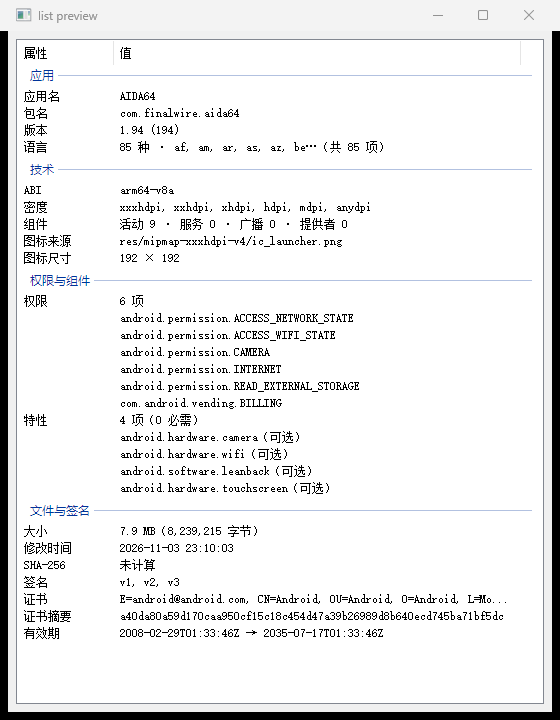
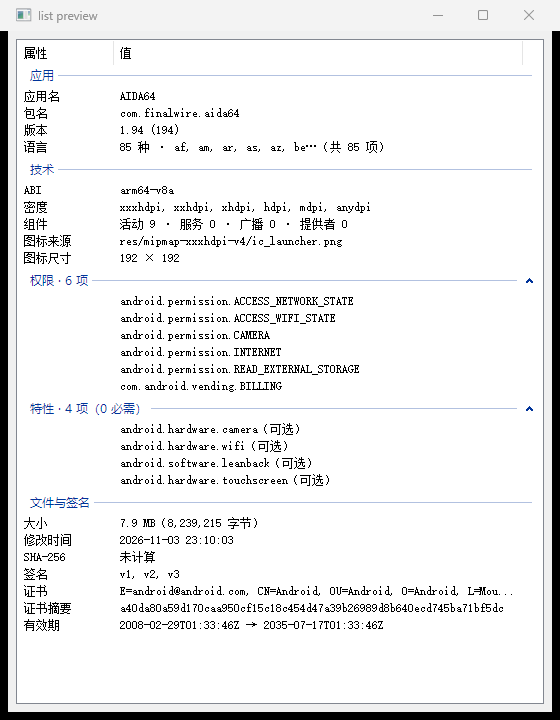
M3: 权限 / 特性明细改成可折叠的系统分组
- 模型：「权限与组件」拆成两个独立分组「权限 · N 项」「特性 · N 项（M 必需）」，明细作为组内行，PageGroup 增加 collapsible
- 列表：LVGF_STATE + LVGS_COLLAPSIBLE（箭头与点击都交给系统，不写命中测试）
- v5 宿主降级：comctl32 没有 v6 时不画分组带，改为把组标题插成普通行，避免"仅值明细"失去上下文
- 修正 comctl32 判断：不用 LVM_ENABLEGROUPVIEW 返回值（v6 下也可能返回 FALSE，会把列表搞成整表空白），改问 DllGetVersion
- 单测更新：权限/特性按组断言（可折叠、条数、标题计数、必需/可选标注），29 项全 ok
- 文档：m3 §16.1/16.2（结构变化、v5 降级、返回值坑）、verification R-0010 与证据截图

diff --git a/src/propsheet/page_list.cpp b/src/propsheet/page_list.cpp
@@ -1,15 +1,18 @@
 #include "propsheet/page_list.h"
 
 #include <commctrl.h>
+#include <shlwapi.h>  // DLLVERSIONINFO / DllGetVersion
 
 #include <algorithm>
+#include <cstring>
 
 namespace apksx {
 namespace {
 
 int AddRow(HWND list, int group_id, int indent, const wchar_t* key, const wchar_t* value) {
   LVITEMW item{};
-  item.mask = LVIF_TEXT | LVIF_GROUPID | LVIF_INDENT;
+  item.mask = LVIF_TEXT | LVIF_INDENT;
+  if (group_id > 0) item.mask |= LVIF_GROUPID;
   item.iItem = ListView_GetItemCount(list);
   item.iIndent = indent;
   item.iGroupId = group_id;
@@ -27,10 +30,36 @@ int AddRow(HWND list, int group_id, int indent, const wchar_t* key, const wchar_
   return index;
 }
 
-void AddGroup(HWND list, int group_id, const std::wstring& title) {
+// comctl32 是 v5（进程没有 v6 清单）还是 v6：只有 v6 才有分组带。
+// 不用 LVM_ENABLEGROUPVIEW 的返回值判断——它在 v6 上也会返回 FALSE，会把列表搞成"分组模式但无组"（整表空白）。
+int ComctlMajorVersion() {
+  static int cached = -1;
+  if (cached >= 0) return cached;
+  cached = 0;
+  HMODULE module = ::GetModuleHandleW(L"comctl32.dll");
+  if (module == nullptr) module = ::LoadLibraryW(L"comctl32.dll");
+  if (module != nullptr) {
+    auto get_version = reinterpret_cast<HRESULT(WINAPI*)(DLLVERSIONINFO*)>(
+        ::GetProcAddress(module, "DllGetVersion"));
+    if (get_version != nullptr) {
+      DLLVERSIONINFO info{};
+      info.cbSize = sizeof(info);
+      if (SUCCEEDED(get_version(&info))) cached = static_cast<int>(info.dwMajorVersion);
+    }
+  }
+  return cached;
+}
+
+void AddGroup(HWND list, int group_id, const std::wstring& title, bool collapsible) {
   LVGROUP group{};
   group.cbSize = sizeof(group);
   group.mask = LVGF_HEADER | LVGF_GROUPID;
+  if (collapsible) {
+    // 默认展开；箭头由系统画、点击也由系统处理，我们不做命中测试
+    group.mask |= LVGF_STATE;
+    group.stateMask = LVGS_COLLAPSIBLE;
+    group.state = LVGS_COLLAPSIBLE;
+  }
   group.pszHeader = const_cast<wchar_t*>(title.c_str());
   group.cchHeader = static_cast<int>(title.size());
   group.iGroupId = group_id;
@@ -42,7 +71,7 @@ void AddGroup(HWND list, int group_id, const std::wstring& title) {
 void ConfigureListView(HWND list) {
   ListView_SetExtendedListViewStyle(list, LVS_EX_FULLROWSELECT | LVS_EX_INFOTIP |
                                              LVS_EX_LABELTIP | LVS_EX_DOUBLEBUFFER);
-  ListView_EnableGroupView(list, TRUE);
+  // 分组视图在 PopulateListView 里按 comctl32 版本决定开关
 }
 
 void ApplyListColumns(HWND list, int width, int dpi) {
@@ -63,11 +92,21 @@ void PopulateListView(HWND list, const PageModel& model) {
   ::SendMessageW(list, WM_SETREDRAW, FALSE, 0);
   ListView_DeleteAllItems(list);
   ListView_RemoveAllGroups(list);
-  ListView_EnableGroupView(list, TRUE);
+  // comctl32 v5 的宿主（没有 v6 清单的进程）不画分组带：此时把组标题降级成普通行，
+  // 否则"权限/特性"这种只有值的明细会失去上下文。
+  const bool groups_supported = ComctlMajorVersion() >= 6;
+  ListView_EnableGroupView(list, groups_supported ? TRUE : FALSE);
 
   int group_id = 1;
   for (const PageGroup& group : model.groups) {
-    AddGroup(list, group_id, group.title);
+    if (!groups_supported) {
+      AddRow(list, 0, 0, L"", group.title.c_str());
+      for (const PageRow& row : group.rows) {
+        AddRow(list, 0, 0, row.key.c_str(), row.value.c_str());
+      }
+      continue;
+    }
+    AddGroup(list, group_id, group.title, group.collapsible);
     for (const PageRow& row : group.rows) {
       // 子项缩进一级（系统画缩进），与"权限/特性"这类明细共存
       AddRow(list, group_id, 0, row.key.c_str(), row.value.c_str());
@@ -77,8 +116,8 @@ void PopulateListView(HWND list, const PageModel& model) {
     }
     ++group_id;
   }
-  if (!model.warnings.empty()) {
-    AddGroup(list, group_id, L"诊断");
+  if (groups_supported && !model.warnings.empty()) {
+    AddGroup(list, group_id, L"诊断", false);
     for (const std::wstring& warning : model.warnings) {
       AddRow(list, group_id, 0, L"", warning.c_str());
     }

diff --git a/src/propsheet/page_model.cpp b/src/propsheet/page_model.cpp
@@ -224,51 +224,52 @@ bool BuildPageModel(const json::Value& doc, const std::wstring& fallback_name, P
   }
   if (!tech.rows.empty()) out->groups.push_back(std::move(tech));
 
-  // ---------------------------------------------------------------- 权限与组件
-  PageGroup perms;
-  perms.title = L"权限与组件";
+  // ---------------------------------------------------------------- 权限（可折叠）
   {
     const json::Value* list = doc.Find("permissions");
-    if (list != nullptr && list->type == json::Type::Array && !list->items.empty()) {
-      PageRow row;
-      row.key = L"权限";
-      std::vector<std::wstring> children;
+    std::vector<std::wstring> names;
+    if (list != nullptr && list->type == json::Type::Array) {
       for (const json::ValuePtr& item : list->items) {
         const std::wstring name = StrField(item.get(), "name");
-        if (!name.empty()) children.push_back(name);
+        if (!name.empty()) names.push_back(name);
       }
-      wchar_t buf[48];
-      _snwprintf_s(buf, _TRUNCATE, L"%zu 项", children.size());
-      row.value = buf;
-      row.copy_value = children.empty() ? std::wstring() : children.front();
-      row.children = std::move(children);
-      perms.rows.push_back(std::move(row));
+    }
+    if (!names.empty()) {
+      PageGroup perms;
+      wchar_t buf[64];
+      _snwprintf_s(buf, _TRUNCATE, L"权限 · %zu 项", names.size());
+      perms.title = buf;
+      perms.collapsible = true;  // 分组带带折叠箭头，收起后整段明细隐藏
+      for (const std::wstring& name : names) AddRow(&perms, L"", name);
+      out->groups.push_back(std::move(perms));
     }
   }
+
+  // ---------------------------------------------------------------- 特性（可折叠）
   {
     const json::Value* list = doc.Find("features");
-    if (list != nullptr && list->type == json::Type::Array && !list->items.empty()) {
-      PageRow row;
-      row.key = L"特性";
-      size_t required = 0;
-      std::vector<std::wstring> children;
+    std::vector<std::wstring> lines;
+    size_t required = 0;
+    if (list != nullptr && list->type == json::Type::Array) {
       for (const json::ValuePtr& item : list->items) {
         const std::wstring name = StrField(item.get(), "name");
         if (name.empty()) continue;
         const json::Value* required_field = Field(item.get(), "required");
         const bool is_required = required_field == nullptr || required_field->as_bool(true);
         if (is_required) ++required;
-        children.push_back(name + (is_required ? L"（必需）" : L"（可选）"));
+        lines.push_back(name + (is_required ? L"（必需）" : L"（可选）"));
       }
-      wchar_t buf[64];
-      _snwprintf_s(buf, _TRUNCATE, L"%zu 项（%zu 必需）", children.size(), required);
-      row.value = buf;
-      row.copy_value = children.empty() ? std::wstring() : children.front();
-      row.children = std::move(children);
-      perms.rows.push_back(std::move(row));
+    }
+    if (!lines.empty()) {
+      PageGroup features;
+      wchar_t buf[80];
+      _snwprintf_s(buf, _TRUNCATE, L"特性 · %zu 项（%zu 必需）", lines.size(), required);
+      features.title = buf;
+      features.collapsible = true;
+      for (const std::wstring& line : lines) AddRow(&features, L"", line);
+      out->groups.push_back(std::move(features));
     }
   }
-  if (!perms.rows.empty()) out->groups.push_back(std::move(perms));
 
   // ---------------------------------------------------------------- 文件与签名
   PageGroup files;

diff --git a/tests/propsheet_model_test.cpp b/tests/propsheet_model_test.cpp
@@ -89,6 +89,13 @@ void DumpModel(const apksx::PageModel& model) {
   }
 }
 
+const apksx::PageGroup* FindGroupByPrefix(const apksx::PageModel& model, const wchar_t* prefix) {
+  for (const apksx::PageGroup& group : model.groups) {
+    if (group.title.find(prefix) == 0) return &group;
+  }
+  return nullptr;
+}
+
 int RunSelfTest() {
   std::printf("selftest: parse + model\n");
   apksx::json::ValuePtr doc;
@@ -108,17 +115,23 @@ int RunSelfTest() {
   const std::wstring* package = FindValue(model, L"包名");
   Check(package != nullptr && *package == L"com.example.pngicon", "应用组有包名");
 
-  const apksx::PageRow* perms = FindRowAnywhere(model, L"权限");
-  Check(perms != nullptr && perms->children.size() == 2, "权限行有两个子项");
-  Check(perms != nullptr && perms->value == L"2 项", "权限行显示数量");
+  const apksx::PageGroup* perms = FindGroupByPrefix(model, L"权限 ·");
+  Check(perms != nullptr && perms->collapsible, "权限组可折叠");
+  Check(perms != nullptr && perms->rows.size() == 2, "权限组有两条明细");
+  Check(perms != nullptr && perms->title.find(L"2 项") != std::wstring::npos, "权限组标题带数量");
+  Check(perms != nullptr && perms->rows[0].value.find(L"android.permission") == 0,
+        "权限明细是权限名");
 
-  const apksx::PageRow* features = FindRowAnywhere(model, L"特性");
-  Check(features != nullptr && features->children.size() == 2, "特性行有两个子项");
-  Check(features != nullptr && features->value.find(L"1 必需") != std::wstring::npos,
-        "特性行统计 required");
-  Check(features != nullptr && features->children[0].find(L"（必需）") != std::wstring::npos,
+  const apksx::PageGroup* features = FindGroupByPrefix(model, L"特性 ·");
+  Check(features != nullptr && features->collapsible, "特性组可折叠");
+  Check(features != nullptr && features->rows.size() == 2, "特性组有两条明细");
+  Check(features != nullptr && features->title.find(L"1 必需") != std::wstring::npos,
+        "特性组标题统计 required");
+  Check(features != nullptr &&
+            features->rows[0].value.find(L"（必需）") != std::wstring::npos,
         "必需的特性带标注");
-  Check(features != nullptr && features->children[1].find(L"（可选）") != std::wstring::npos,
+  Check(features != nullptr &&
+            features->rows[1].value.find(L"（可选）") != std::wstring::npos,
         "可选的特性带标注");
 
   const apksx::PageRow* sha = FindRowAnywhere(model, L"SHA-256");

diff --git a/src/propsheet/page_model.h b/src/propsheet/page_model.h
@@ -25,6 +25,8 @@ struct PageRow {
 struct PageGroup {
   std::wstring title;
   std::vector<PageRow> rows;
+  // 系统分组带可折叠（LVS：LVGS_COLLAPSIBLE）。用于"权限 / 特性"这类可能很长的明细
+  bool collapsible = false;
 };
 
 struct PageModel {

diff --git a/docs/m3-property-page.md b/docs/m3-property-page.md
@@ -48,9 +48,13 @@
 │   组件        活动 12 · 服务 3 · 广播 2 · 提供者 1        │
 │   图标来源    res/mipmap-xxxhdpi-v4/ic_launcher.png      │
 ├──────────────────────────────────────────────────────────┤
-│ 权限与组件                                               │
-│   权限        6 项  ▸（点击展开列表）                     │
-│   特性        android.hardware.camera（必需）…           │
+│ 权限 · 6 项                                         ▾    │
+│   android.permission.INTERNET                            │
+│   …（分组带可折叠，收起后整段明细隐藏）                    │
+├──────────────────────────────────────────────────────────┤
+│ 特性 · 4 项（0 必需）                               ▾    │
+│   android.hardware.camera（可选）                         │
+│   …                                                       │
 ├──────────────────────────────────────────────────────────┤
 │ 文件与签名                                               │
 │   大小        8.7 KB                                     │
@@ -350,3 +354,24 @@ LVS_EX_INFOTIP | LVS_EX_LABELTIP | LVS_EX_DOUBLEBUFFER`。
 4. **列宽按列表自身客户区算**：`96 DIP` 键列 + 剩余宽度，预留竖直滚动条，避免出现多余的横向滚动条。
 5. **DPI/主题变化**：`WM_DPICHANGED / WM_SETTINGCHANGE / WM_SYSCOLORCHANGE / WM_THEMECHANGED`
    重新向宿主要字体并重排；控件自己会按新主题重画。
+
+### 16.1 追加：权限 / 特性 明细可折叠（同日）
+
+用户看过原生版后要求"权限明细与特性明细若方便也做成可折叠"。做法上**不自己画三角**，
+而是让这两段各自成为一个 **可折叠的系统分组**：
+
+- 模型侧：`PageGroup.collapsible`；`权限 · N 项`、`特性 · N 项（M 必需）` 两个独立组，
+  明细作为组内的普通行（文本放值列，键列放不下长包名）。
+- 列表侧：`LVGF_STATE` + `LVGS_COLLAPSIBLE`。箭头由系统画、点击由系统处理，我们不写命中测试。
+- 代价：分组数从 4 变 5（原「权限与组件」拆成「权限」「特性」，`组件` 行留在「技术」组）；
+  折叠状态不持久化（重开属性页恢复展开）。
+
+### 16.2 v5 宿主的降级
+
+分组带是 comctl32 **v6** 的特性。宿主进程没有 v6 清单时（例如 Windows PowerShell 5.1、
+部分第三方文件管理器里内嵌属性页），分组根本画不出来，`权限/特性` 这种"只有值"的明细会失去上下文。
+所以 `PopulateListView` 会先探测版本（`comctl32.dll` 的 `DllGetVersion`），
+v5 时把**组标题降级成普通行**插在明细前面（`应用`、`技术`、`权限 · 6 项`…），保证读得懂。
+
+> 坑：`LVM_ENABLEGROUPVIEW` 的**返回值不能用来判断**——它在 v6 上也会返回 FALSE。
+> 早先按返回值走降级分支，结果列表停在"分组模式但条目不属于任何组"的状态，整表空白。

diff --git a/docs/verification.md b/docs/verification.md
@@ -769,3 +769,34 @@ out/x64/proptest.exe --list-json aida.json --capture docs/evidence/m3-native-gro
 
 - `proptest.exe` 直接 `PropertySheetW` 仍返回 `-1`（已确认 `WM_INITDIALOG` 从未被调用，`InitCommonControlsEx` 与 v6 清单都已加）。
   目前按"不走属性表"的 `--list-json` 模式做渲染验证；真实页面走 explorer 路径，不影响交付。
+
+## 18. R-0010 记录（M3 · 权限/特性可折叠，2026-11-04）
+
+用户要求把权限明细与特性明细做成可折叠。实现方式：两段各自成为**可折叠的系统分组**
+（`LVGS_COLLAPSIBLE`，箭头与点击都由系统负责），不新增自绘。
+
+### 验收
+
+```
+MSYS_NO_PATHCONV=1 cmd.exe /c "tools\build.cmd Release"        # 干净
+out/x64/propsheet_model_test.exe --selftest                      # 29 项全 ok（新增"权限/特性组可折叠"）
+python tests/verify_apkinfo.py tests/fixtures/generated/*.apk    # 6/6
+```
+
+| 证据 | 内容 |
+| --- | --- |
+| `docs/evidence/m3-native-groups.png` | v6 宿主：`权限 · 6 项`、`特性 · 4 项（0 必需）` 两条分组带都带折叠箭头 |
+| `docs/evidence/m3-native-page.png` | 真实页面（v5 宿主）：组标题降级为行，明细可读 |
+| `docs/evidence/m3-native-v5-fallback.png` | v5 降级形态：`应用 / 技术 / 权限 · 6 项 / 特性 · 4 项…` 作为行出现 |
+
+### 结构变化
+
+- 分组由 4 个变 5 个：`应用 / 技术 / 权限 / 特性 / 文件与签名`，`组件` 行留在「技术」组。
+- 明细行是"空键 + 值等于权限名"，复制时按值列取值（右键「复制值」仍然对）。
+- 折叠状态不持久化。
+
+### 踩到的坑
+
+`LVM_ENABLEGROUPVIEW` 返回值不可靠（v6 下也可能返回 FALSE）：第一次按返回值判断，
+列表进入"分组模式但条目无组"状态，整屏空白。改用 `comctl32.dll` 的 `DllGetVersion`
+判断主版本号是否 ≥ 6，并且 v5 时显式 `ListView_EnableGroupView(FALSE)`。
